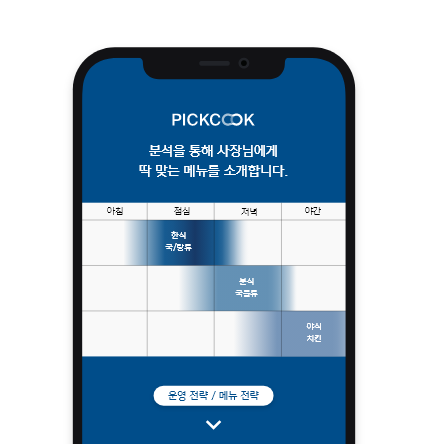
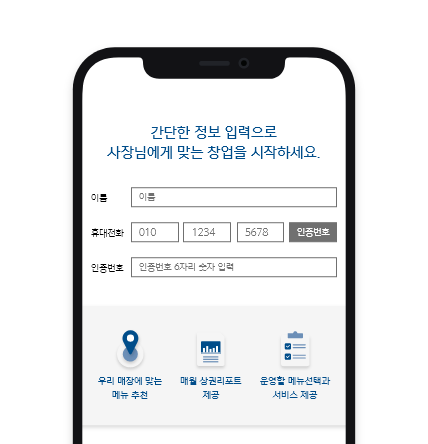
메인 탭 이미지 수정

diff --git a/src/modules/main/Main.vue b/src/modules/main/Main.vue
@@ -260,7 +260,7 @@
           data-aos-duration="1500"
         >
           <b-tabs align="center">
-            <b-tab title="분석하기" active>
+            <b-tab title="진단하기" active>
               <div class="img-box">
                 <div class="mask-box">
                   <img
@@ -270,12 +270,12 @@
               </div>
               <div class="txt-box">
                 <p>
-                  창업지역의 고객, 경쟁자, 잘 팔리는 업종을 <br />
-                  꼼꼼하게 분석합니다.
+                  간단한 설문을 통해 창업지역과 <br />
+                  현재 상황을 진단할 수 있어요.
                 </p>
               </div>
             </b-tab>
-            <b-tab title="진단하기">
+            <b-tab title="결과보기">
               <div class="img-box">
                 <div class="mask-box">
                   <img
@@ -285,12 +285,12 @@
               </div>
               <div class="txt-box">
                 <p>
-                  창업지역의 시간대별 소비현황과 <br />
-                  매장의 상황을 세부적으로 진단합니다.
+                  빅데이터로 분석된 고객, 경쟁사, 시간대별 <br />
+                  소비메뉴를 세부적으로 확인하세요.
                 </p>
               </div>
             </b-tab>
-            <b-tab title="추천하기">
+            <b-tab title="추천받기">
               <div class="img-box">
                 <div class="mask-box">
                   <img
@@ -300,12 +300,12 @@
               </div>
               <div class="txt-box">
                 <p>
-                  창업 지역에 딱맞는 시간대별 <br />
-                  메뉴와 판매 방법을 제공합니다.
+                  창업지역에 딱 맞는 시간대별 메뉴와 <br />
+                  운영 방법을 추천 받으세요.
                 </p>
               </div>
             </b-tab>
-            <b-tab title="실행하기">
+            <b-tab title="신청하기">
               <div class="img-box">
                 <div class="mask-box">
                   <img
@@ -315,8 +315,8 @@
               </div>
               <div class="txt-box">
                 <p>
-                  메뉴와 운영 교육, 관리를 <br />
-                  픽쿡이 함께 합니다.
+                  픽쿡플래너를 통해 자신에게 <br />
+                  딱 맞는 창업을 시작해보세요.
                 </p>
               </div>
             </b-tab>
@@ -636,6 +636,7 @@ export default class Main extends BaseComponent {
             font-size: 1em;
             padding: 0.625em 0;
             margin: 0 1em;
+            outline: none !important;
             &.active {
               font-weight: 800;
               color: #2140a3;

diff --git a/src/assets/css/common.css b/src/assets/css/common.css
@@ -509,11 +509,11 @@ body {
 }
 
 .loading-layer {
-  position: absolute;
+  position: fixed;
   left: 0;
   top: 0;
   width: 100%;
-  height: 100%;
+  height: 100vh;
   z-index: 100;
   background-color: rgba(255, 255, 255, 0.6);
   background-image: url("../images/loading.gif");

diff --git a/src/assets/scss/common.scss b/src/assets/scss/common.scss
@@ -530,11 +530,11 @@ body {
 }
 
 .loading-layer {
-  position: absolute;
+  position: fixed;
   left: 0;
   top: 0;
   width: 100%;
-  height: 100%;
+  height: 100vh;
   z-index: 100;
   background-color: rgba(255, 255, 255, 0.6);
   background-image: url('../images/loading.gif');
